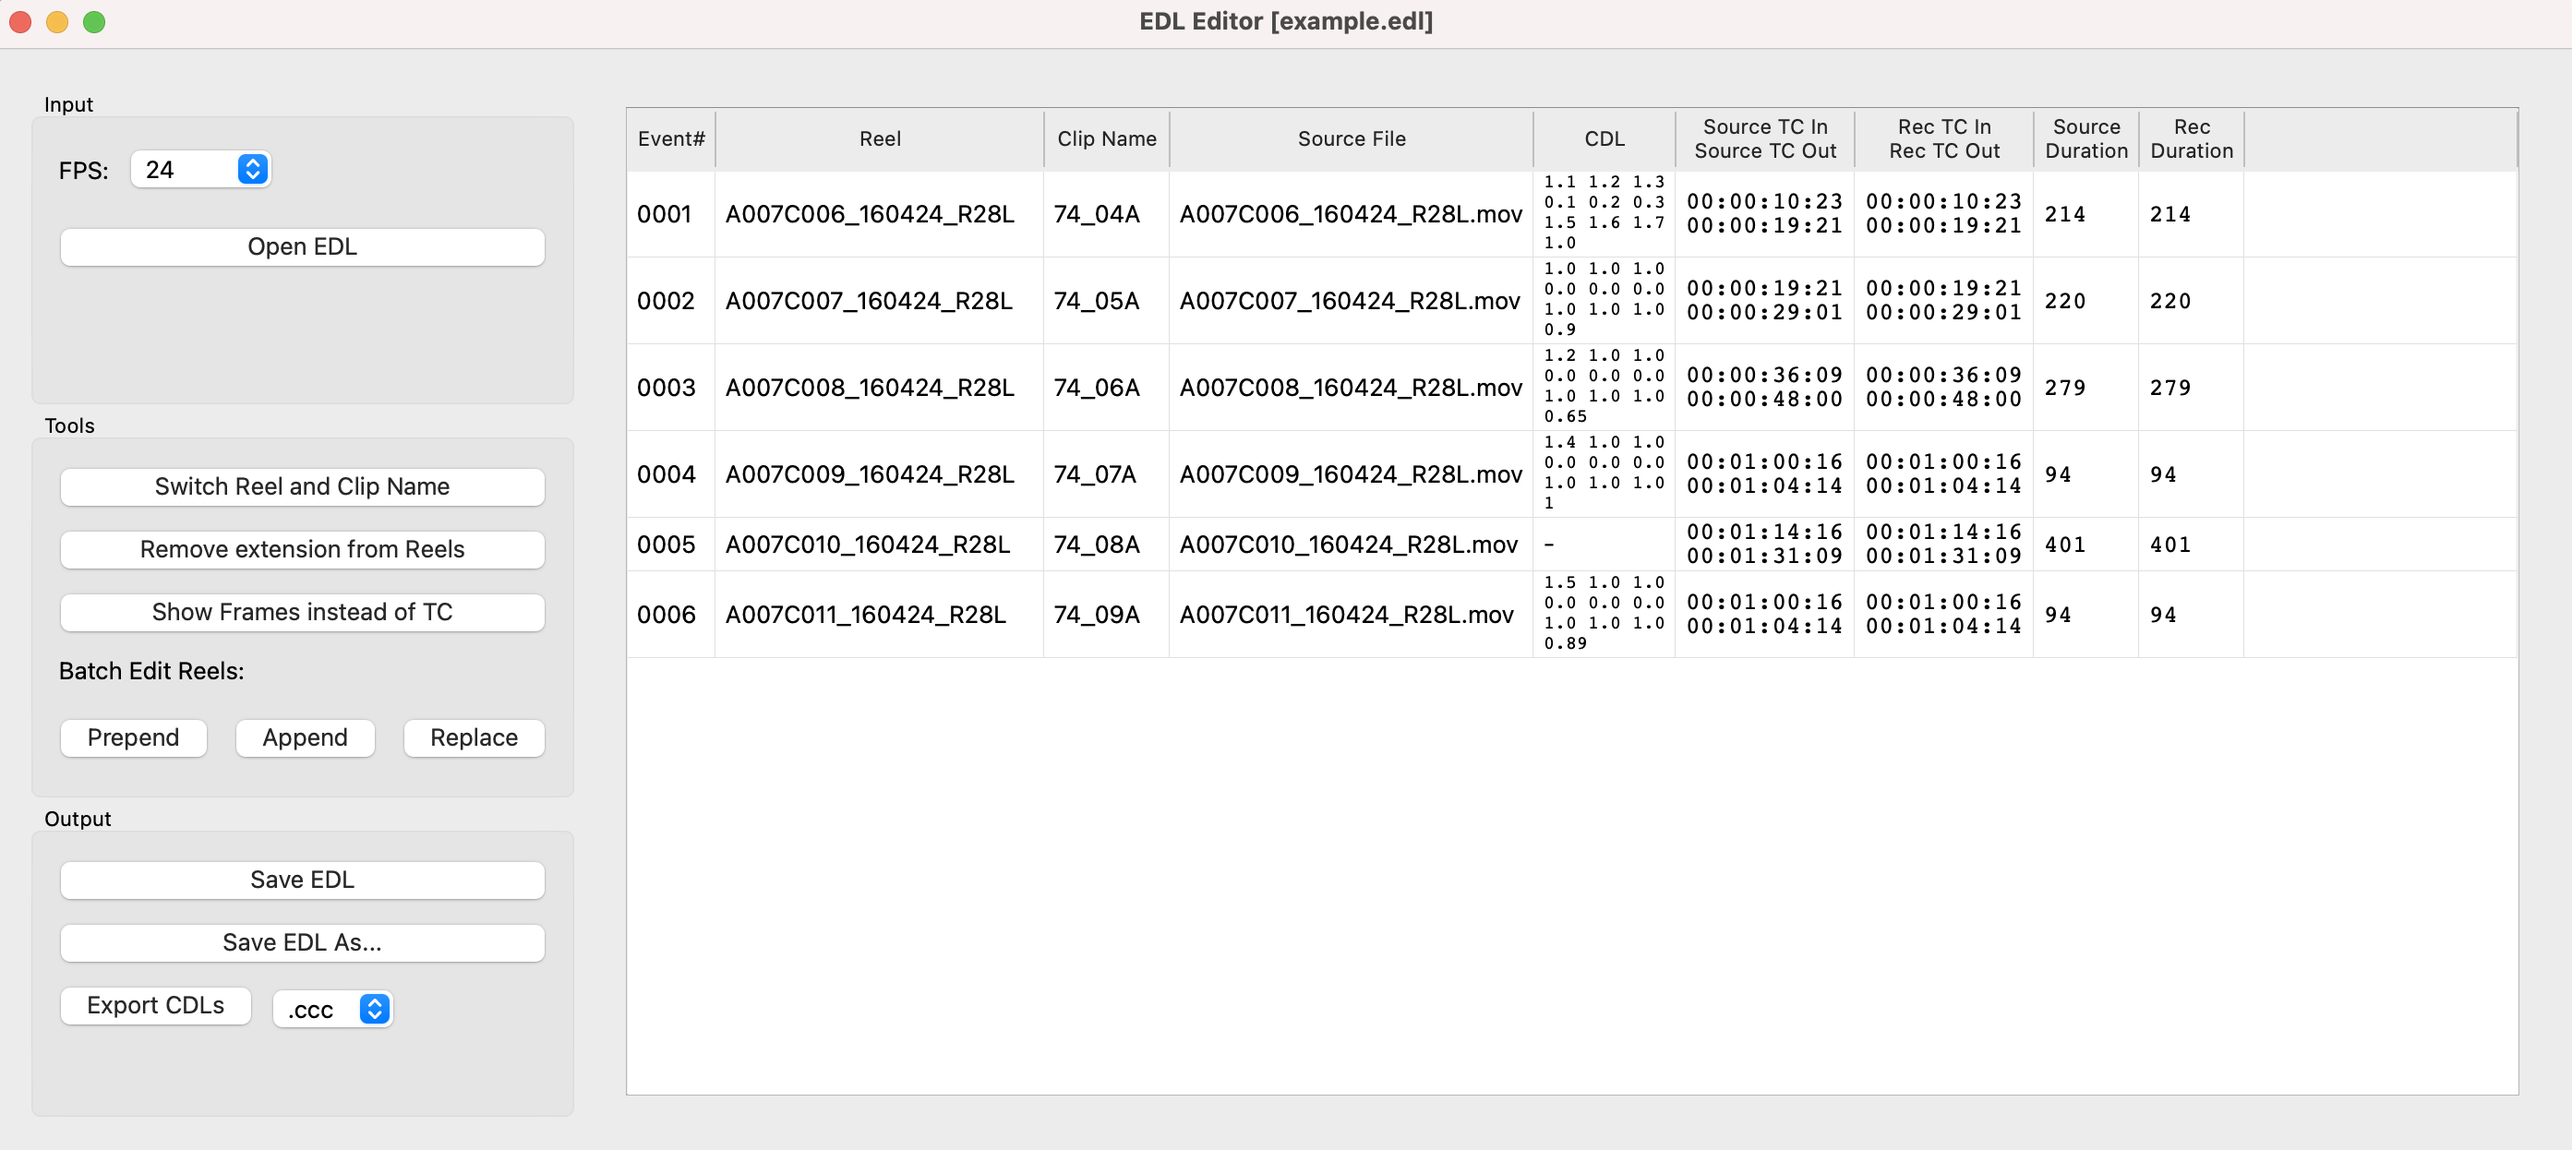
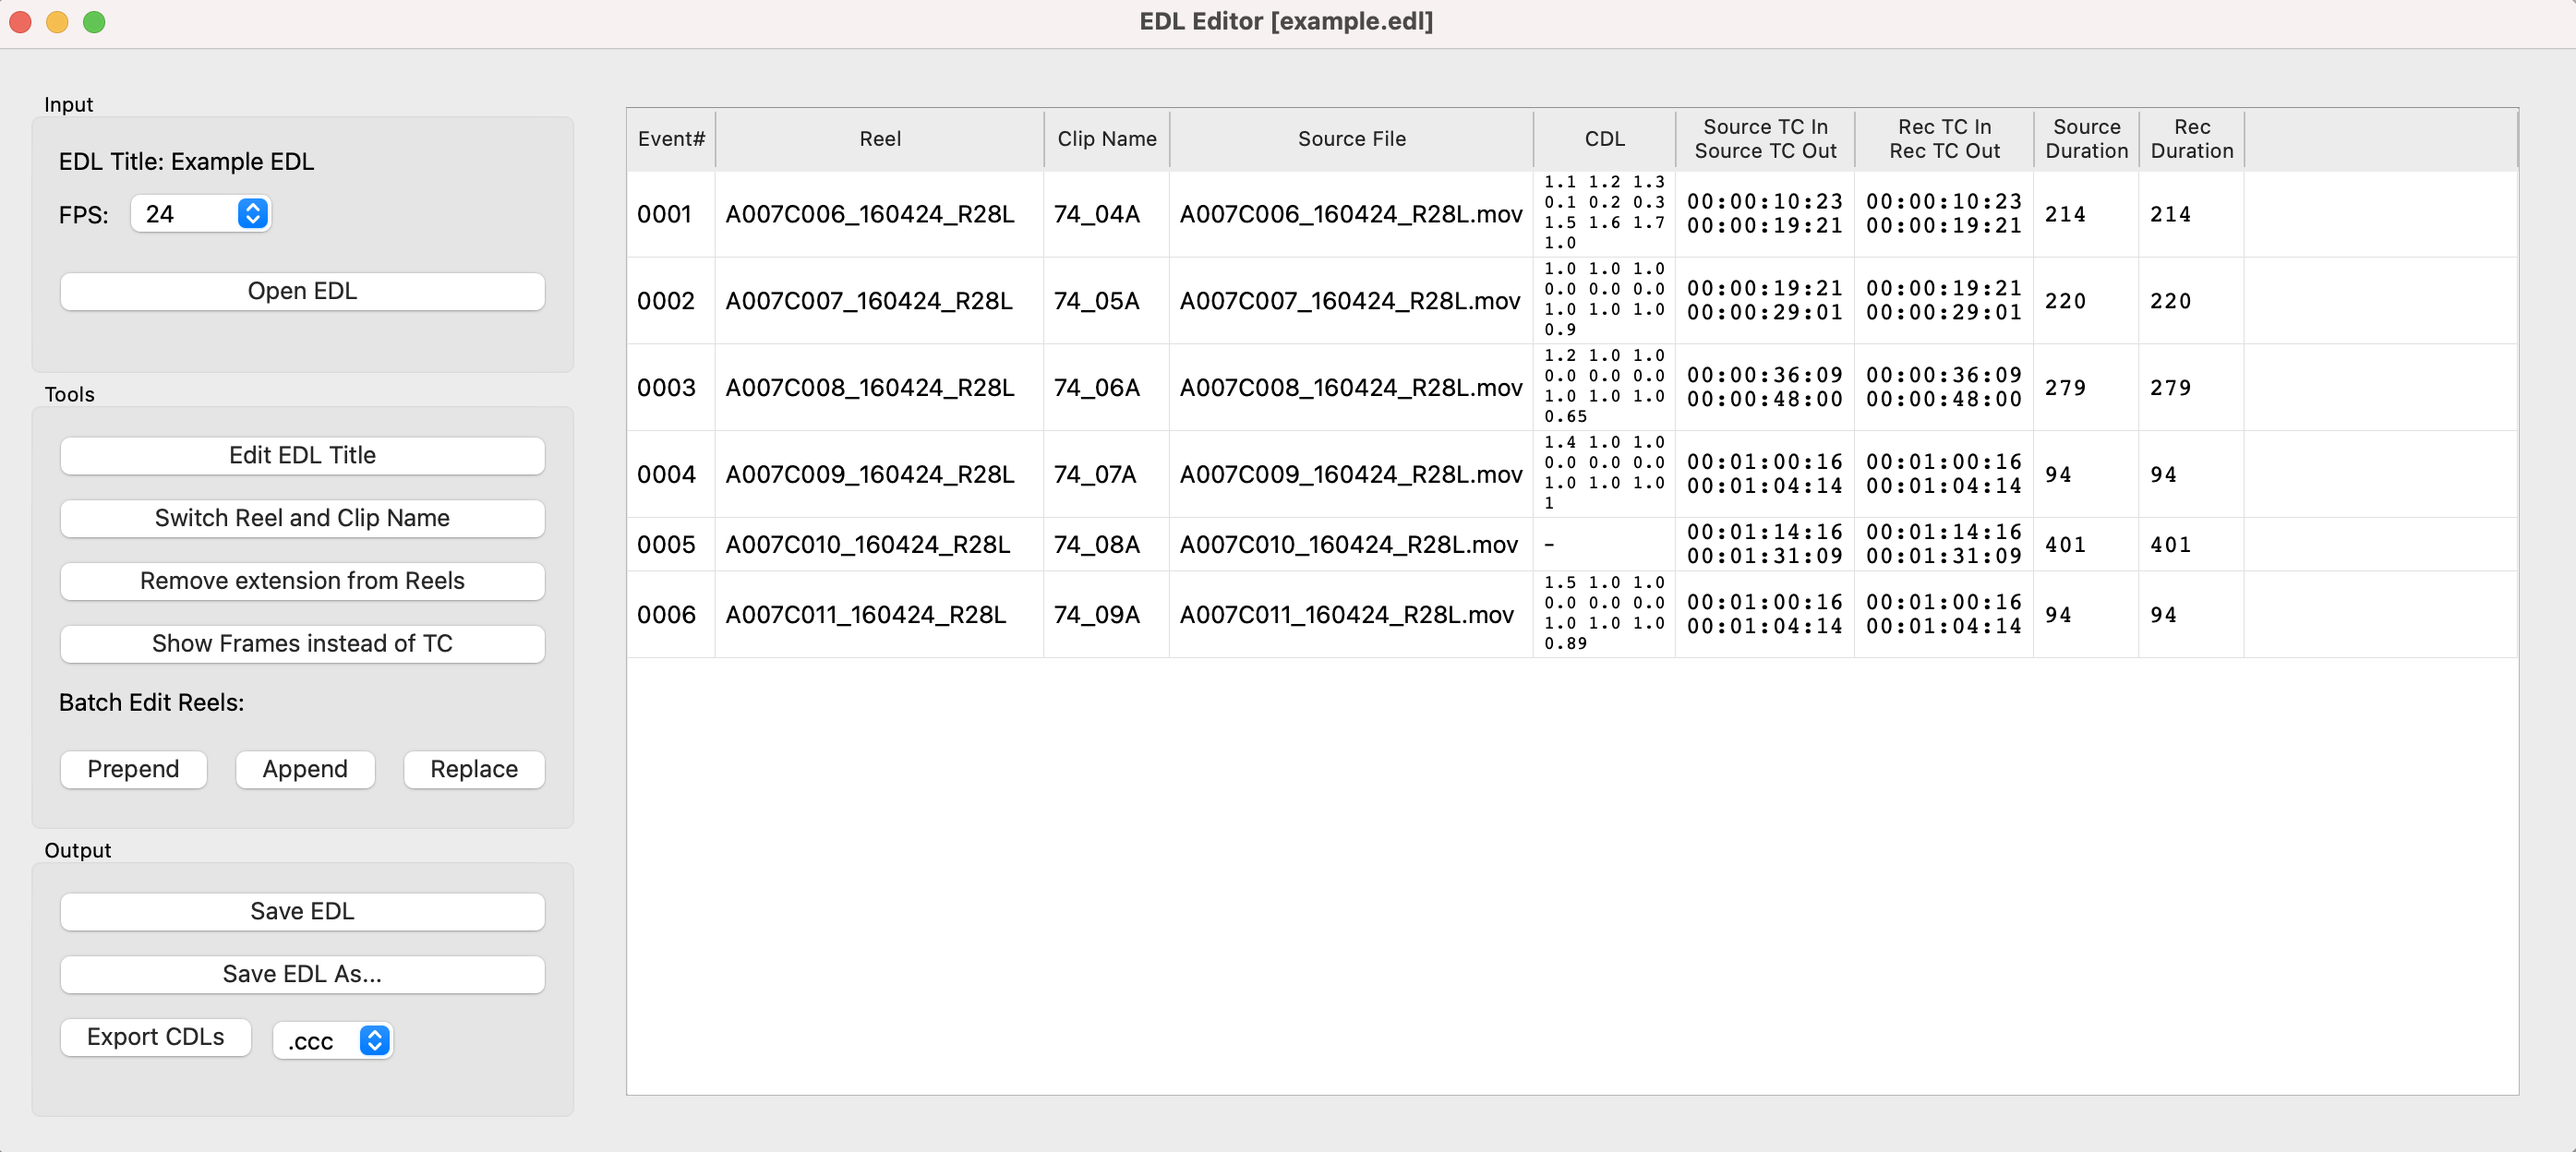
Add EDL Title and add tool: edit edl title

diff --git a/py_edl_editor/gui_controller.py b/py_edl_editor/gui_controller.py
@@ -68,6 +68,15 @@ class GuiController(object):
         )[0]
         self.update_edl_view()
 
+    def edit_edl_title(self):
+        """Update the EDL title."""
+        reply = QtWidgets.QInputDialog.getText(
+            None, "Update EDL Title", "New EDL Title:"
+        )
+        if reply[1]:
+            self.edl.title = reply[0]
+        self.gui.edl_title.setText(f"EDL Title: {self.edl.title}")
+
     def switch_reel(self):
         """Switch EDL Reel and EDL Clip Name."""
         for event in self.edl.events:
@@ -140,6 +149,8 @@ class GuiController(object):
             caption='Save File As...', dir=self.edl_path
         )[0]
         self._write_file(dest_file_path, [self.edl.to_string()])
+        self.edl_path = dest_file_path
+        self.update_edl_view()
 
     def export_cdl(self):
         """Export CDLs as textfiles. CDL type based on GUI dropdown."""
@@ -186,6 +197,7 @@ class GuiController(object):
     def _set_edl(self):
         """Parse and set the EDL."""
         self.edl = parse_edl(self.edl_path, self.fps)
+        self.gui.edl_title.setText(f"EDL Title: {self.edl.title}")
 
     def _fill_edl_table(self):
         """Fill the EDL view with edl table events."""

diff --git a/py_edl_editor/gui.py b/py_edl_editor/gui.py
@@ -44,6 +44,10 @@ class PyEdlEditorApp(QtWidgets.QWidget):
         # Input Group on the left
         self.input_group_box = QtWidgets.QGroupBox("Input")
 
+        # EDL Title
+        self.edl_title = QtWidgets.QLabel("", self)
+        self.input_layout_left.addRow(self.edl_title)
+
         # FPS Dropdown
         self.framerate_label = QtWidgets.QLabel("FPS:", self)
         self.framerate = QtWidgets.QComboBox(self) 
@@ -64,6 +68,11 @@ class PyEdlEditorApp(QtWidgets.QWidget):
         # Tools Group on the left
         self.tools_group_box = QtWidgets.QGroupBox("Tools")
         
+        # Edit EDL Title
+        edit_edl_title_button = QtWidgets.QPushButton("Edit EDL Title", self)
+        self.tools_layout_left.addRow(edit_edl_title_button)
+        edit_edl_title_button.clicked.connect(self.controller.edit_edl_title)
+
         # Switch Reel and Clip Name Button
         self.switch_reel_button = QtWidgets.QPushButton(
             "Switch Reel and Clip Name", self
